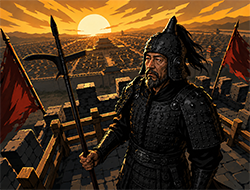
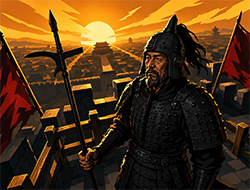
feat: add Ruthless Strike and fix All In plus unblockable combat
Add Ruthless Strike and bridge AttackCommand damage props so Unblockable
works in combat. Rebalance All In to stackable +50%/+75% with multi-play
boost retention; dual swords now keys off CardTag.Strike.

diff --git a/Powers/AllInPower.cs b/Powers/AllInPower.cs
@@ -14,23 +14,20 @@ using STS2RitsuLib.Scaffolding.Content;
 namespace Squ.Powers;
 
 /// <summary>
-/// 倾巢而出（All In）：打出时若手牌中仅剩该攻击/技能牌，其造成的伤害与获得的格挡翻倍。
-/// <para>
-/// 原版在 <c>OnPlay</c> 之前会调用 <c>CardPileCmd.AddDuringManualCardPlay</c> 将牌移出手牌，
-/// 故打出时无法在手牌中见到该牌；「打出前手牌仅余此牌」等价于
-/// <c>BeforeCardPlayed</c> 首次结算时手牌为空。
-/// </para>
+/// 倾巢而出（All In）：打出时若手牌中仅剩该攻击/技能牌，其造成的伤害与获得的格挡增加 <see cref="Amount"/>%。
+/// 层数叠加时 <see cref="Amount"/> 为各层加成百分比之和。
 /// </summary>
 [RegisterPower]
 public sealed class AllInPower : ModPowerTemplate
 {
-	public const decimal Multiplier = 2m;
+	public const decimal BaseBonusPercent = 50m;
+	public const decimal UpgradedBonusPercent = 75m;
 
 	private CardModel? _boostedCard;
 
 	public override PowerType Type => PowerType.Buff;
 
-	public override PowerStackType StackType => PowerStackType.Single;
+	public override PowerStackType StackType => PowerStackType.Counter;
 
 	public override Color AmountLabelColor => PowerModel._normalAmountLabelColor;
 
@@ -40,6 +37,12 @@ public sealed class AllInPower : ModPowerTemplate
 
 	public override Task BeforeCardPlayed(CardPlay cardPlay)
 	{
+		// 新一轮出牌（含上一次多段出牌被战斗中断后的残留标记）。
+		if (cardPlay.PlayIndex == 0)
+		{
+			_boostedCard = null;
+		}
+
 		if (cardPlay.Card.Owner.Creature != Owner
 			|| cardPlay.PlayIndex != 0
 			|| !IsQualifyingCard(cardPlay.Card))
@@ -58,7 +61,7 @@ public sealed class AllInPower : ModPowerTemplate
 
 	public override Task AfterCardPlayedLate(PlayerChoiceContext choiceContext, CardPlay cardPlay)
 	{
-		if (cardPlay.Card == _boostedCard)
+		if (cardPlay.Card == _boostedCard && IsFinalPlayIteration(cardPlay))
 		{
 			_boostedCard = null;
 		}
@@ -74,13 +77,13 @@ public sealed class AllInPower : ModPowerTemplate
 		CardModel? card,
 		CardPlay? cardPlay)
 	{
-		if (!ShouldDouble(card, dealer))
+		if (!ShouldBoost(card, dealer))
 		{
 			return 1m;
 		}
 
 		Flash();
-		return Multiplier;
+		return 1m + Amount / 100m;
 	}
 
 	public override decimal ModifyBlockMultiplicative(
@@ -90,21 +93,47 @@ public sealed class AllInPower : ModPowerTemplate
 		CardModel? cardSource,
 		CardPlay? cardPlay)
 	{
-		if (!ShouldDouble(cardSource, target))
+		if (!ShouldBoost(cardSource, target))
 		{
 			return 1m;
 		}
 
 		Flash();
-		return Multiplier;
+		return 1m + Amount / 100m;
 	}
 
-	private bool ShouldDouble(CardModel? card, Creature? actor) =>
-		card is not null
-		&& actor == Owner
-		&& card == _boostedCard
-		&& IsQualifyingCard(card);
+	private bool ShouldBoost(CardModel? card, Creature? actor)
+	{
+		if (card is null || actor != Owner || card.Owner != Owner.Player || !IsQualifyingCard(card))
+		{
+			return false;
+		}
+
+		// 打出结算：BeforeCardPlayed 已标记。
+		if (card == _boostedCard)
+		{
+			return true;
+		}
+
+		// 手牌预览：最后一张仍在手牌中。
+		CardPile hand = PileType.Hand.GetPile(card.Owner);
+		return hand.Cards.Count == 1 && hand.Cards[0] == card;
+	}
 
 	private static bool IsQualifyingCard(CardModel card) =>
 		card.Type is CardType.Attack or CardType.Skill;
+
+	/// <summary>
+	/// 仅在整次出牌（含仁义双剑等多段结算）的最后一击后清除加成标记。
+	/// <see cref="CardPlay.PlayCount"/> 异常为 0 时按单次出牌处理，避免标记泄漏。
+	/// </summary>
+	private static bool IsFinalPlayIteration(CardPlay cardPlay)
+	{
+		if (cardPlay.PlayCount <= 1)
+		{
+			return true;
+		}
+
+		return cardPlay.PlayIndex >= cardPlay.PlayCount - 1;
+	}
 }

diff --git a/Cards/RuthlessStrike.cs b/Cards/RuthlessStrike.cs
@@ -1,0 +1,57 @@
+using System;
+using System.Collections.Generic;
+using System.Threading.Tasks;
+using MegaCrit.Sts2.Core.Commands;
+using MegaCrit.Sts2.Core.Entities.Cards;
+using MegaCrit.Sts2.Core.GameActions.Multiplayer;
+using MegaCrit.Sts2.Core.Localization.DynamicVars;
+using MegaCrit.Sts2.Core.ValueProps;
+using Squ.Character;
+using Squ.Combat;
+using STS2RitsuLib.Interop.AutoRegistration;
+using STS2RitsuLib.Scaffolding.Content;
+
+#nullable enable
+
+namespace Squ.Cards;
+
+[RegisterCard(typeof(SunqianCardPool), StableEntryStem = "ruthless_strike")]
+public sealed class RuthlessStrike : ModCardTemplate
+{
+	public const decimal BaseDamage = 18m;
+	public const decimal UpgradedDamage = 24m;
+
+	private static readonly ValueProp DamageProps = ValueProp.Move | ValueProp.Unblockable;
+
+	protected override IEnumerable<DynamicVar> CanonicalVars =>
+	[
+		new DamageVar(BaseDamage, DamageProps),
+	];
+
+	protected override HashSet<CardTag> CanonicalTags => [CardTag.Strike];
+
+	public override CardAssetProfile AssetProfile => new(
+		PortraitPath: "res://images/cards/RuthlessStrike.png");
+
+	public RuthlessStrike()
+		: base(2, CardType.Attack, CardRarity.Common, TargetType.AnyEnemy)
+	{
+	}
+
+	protected override async Task OnPlay(PlayerChoiceContext choiceContext, CardPlay cardPlay)
+	{
+		ArgumentNullException.ThrowIfNull(cardPlay.Target, nameof(cardPlay.Target));
+
+		await DamageCmd.Attack(DynamicVars.Damage.BaseValue)
+			.WithDamageProps(DamageProps)
+			.FromCard(this, cardPlay)
+			.Targeting(cardPlay.Target)
+			.WithHitFx("vfx/vfx_attack_slash")
+			.Execute(choiceContext);
+	}
+
+	protected override void OnUpgrade()
+	{
+		DynamicVars.Damage.UpgradeValueBy(UpgradedDamage - BaseDamage);
+	}
+}

diff --git a/Powers/BenevolenceRighteousnessDualSwordsPower.cs b/Powers/BenevolenceRighteousnessDualSwordsPower.cs
@@ -1,4 +1,4 @@
-using System;
+using System.Linq;
 using System.Threading.Tasks;
 using Godot;
 using MegaCrit.Sts2.Core.Entities.Cards;
@@ -13,7 +13,7 @@ using STS2RitsuLib.Scaffolding.Content;
 namespace Squ.Powers;
 
 /// <summary>
-/// 仁义双剑：名字带有「打击」的牌额外打出 <see cref="Amount"/> 次。
+/// 仁义双剑：带有 <see cref="CardTag.Strike"/> 的牌额外打出 <see cref="Amount"/> 次。
 /// </summary>
 [RegisterPower]
 public sealed class BenevolenceRighteousnessDualSwordsPower : ModPowerTemplate
@@ -30,7 +30,7 @@ public sealed class BenevolenceRighteousnessDualSwordsPower : ModPowerTemplate
 
 	public override int ModifyCardPlayCount(CardModel card, Creature? target, int playCount)
 	{
-		if (card.Owner.Creature != Owner || !StrikeNameMatcher.IsStrikeNamedCard(card))
+		if (card.Owner.Creature != Owner || !IsStrikeCard(card))
 		{
 			return playCount;
 		}
@@ -40,18 +40,14 @@ public sealed class BenevolenceRighteousnessDualSwordsPower : ModPowerTemplate
 
 	public override Task AfterModifyingCardPlayCount(CardModel card)
 	{
-		if (card.Owner.Creature == Owner && StrikeNameMatcher.IsStrikeNamedCard(card))
+		if (card.Owner.Creature == Owner && IsStrikeCard(card))
 		{
 			Flash();
 		}
 
 		return Task.CompletedTask;
 	}
-}
 
-internal static class StrikeNameMatcher
-{
-	public static bool IsStrikeNamedCard(CardModel card) =>
-		card.Title.Contains("打击", StringComparison.Ordinal)
-		|| card.Title.Contains("Strike", StringComparison.OrdinalIgnoreCase);
+	private static bool IsStrikeCard(CardModel card) =>
+		card.Tags.Contains(CardTag.Strike);
 }

diff --git a/Combat/SquAttackCommandExtensions.cs b/Combat/SquAttackCommandExtensions.cs
@@ -1,0 +1,29 @@
+using System;
+using System.Reflection;
+using MegaCrit.Sts2.Core.Commands.Builders;
+using MegaCrit.Sts2.Core.Localization.DynamicVars;
+using MegaCrit.Sts2.Core.ValueProps;
+
+#nullable enable
+
+namespace Squ.Combat;
+
+/// <summary>
+/// <see cref="AttackCommand"/> only exposes <see cref="AttackCommand.Unpowered"/> for <see cref="AttackCommand.DamageProps"/>;
+/// card <see cref="DamageVar.Props"/> (e.g. <see cref="ValueProp.Unblockable"/>) must be copied explicitly for combat resolution.
+/// </summary>
+public static class SquAttackCommandExtensions
+{
+	private static readonly PropertyInfo DamagePropsProperty =
+		typeof(AttackCommand).GetProperty(nameof(AttackCommand.DamageProps))
+		?? throw new InvalidOperationException($"Missing {nameof(AttackCommand.DamageProps)} property.");
+
+	public static AttackCommand WithDamageProps(this AttackCommand command, ValueProp props)
+	{
+		DamagePropsProperty.SetValue(command, props);
+		return command;
+	}
+
+	public static AttackCommand WithDamageVarProps(this AttackCommand command, DamageVar damageVar) =>
+		command.WithDamageProps(damageVar.Props);
+}

diff --git a/Cards/AllIn.cs b/Cards/AllIn.cs
@@ -25,17 +25,12 @@ public sealed class AllIn : ModCardTemplate
 
 	protected override async Task OnPlay(PlayerChoiceContext choiceContext, CardPlay cardPlay)
 	{
+		decimal bonusPercent = IsUpgraded ? AllInPower.UpgradedBonusPercent : AllInPower.BaseBonusPercent;
 		await PowerCmd.Apply<AllInPower>(
 			choiceContext,
 			Owner.Creature,
-			1m,
+			bonusPercent,
 			Owner.Creature,
 			this);
-	}
-
-	protected override void OnUpgrade()
-	{
-		MockSetEnergyCost(new CardEnergyCost(this, 0, costsX: false));
-		InvokeEnergyCostChanged();
 	}
 }

diff --git a/Cards/GoldenUprising.cs b/Cards/GoldenUprising.cs
@@ -24,7 +24,7 @@ namespace Squ.Cards;
 [RegisterCard(typeof(SunqianCardPool), StableEntryStem = "golden_uprising")]
 public sealed class GoldenUprising : ModCardTemplate
 {
-	public const int BaseGoldCost = 5;
+	public const int BaseGoldCost = 10;
 	public const int GoldEscalationPerPlay = 5;
 	public const int CardPickCount = 2;
 

diff --git a/Cards/SalvoStrike.cs b/Cards/SalvoStrike.cs
@@ -25,6 +25,8 @@ public sealed class SalvoStrike : ModCardTemplate, IRandomEnemyTargetCount
 		new DamageVar(BaseDamage, ValueProp.Move),
 	];
 
+	protected override HashSet<CardTag> CanonicalTags => [CardTag.Strike];
+
 	public override IEnumerable<CardKeyword> CanonicalKeywords =>
 	[
 		CardKeyword.Exhaust,
